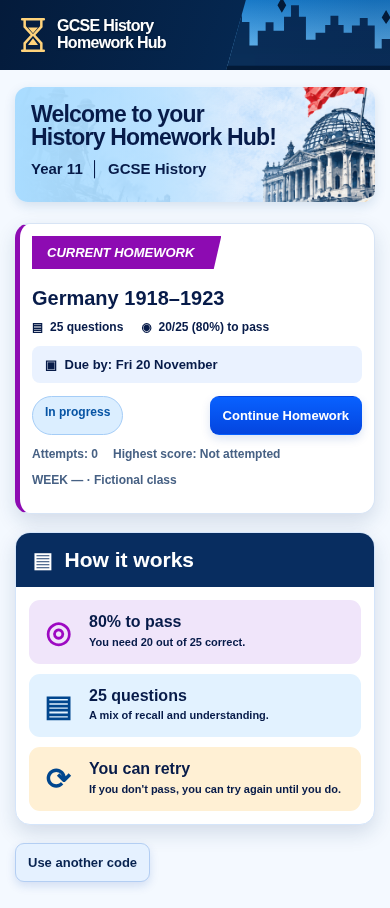
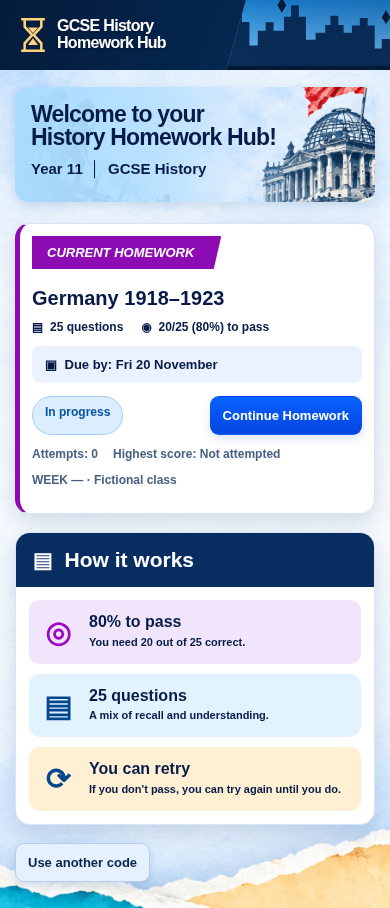
style: match TEST dashboard background to existing quiz watercolour

diff --git a/pupil/styles.css b/pupil/styles.css
@@ -851,8 +851,9 @@ body {
   }
 }
 
-/* Quiz screens only: calmer pale-blue watercolour, with torn-paper lower edge. */
-.quiz-bg {
+/* Dashboard and quiz share the approved watercolour and torn-paper lower edge. */
+.quiz-bg,
+#home {
   background-image: url("./assets/approved-quiz.png");
   background-position: center bottom;
   background-size: cover;

diff --git a/docs/pupil-design/README.md b/docs/pupil-design/README.md
@@ -38,10 +38,12 @@ style checks passing. Code entry matches the approved geometry, typography and c
 widths; mobile is pixel-identical and desktop differs only in negligible antialiased edge pixels.
 
 Three original artwork assets are extracted unchanged from the approved HTML. No generic imagery,
-external fonts, CDN assets, dependencies, telemetry or screenshot-as-UI substitute is used. Only
-question screens/inline question feedback use the quieter watercolour; all other art follows the
-approved reference. Existing functional controls and timing information necessarily add content
-where the demo omitted them; no existing functionality is removed to force a screenshot match.
+external fonts, CDN assets, dependencies, telemetry or screenshot-as-UI substitute is used. The
+dashboard and question screens/inline question feedback share the same quieter watercolour following
+the owner's final visual adjustment. Login, instructions and results retain their existing collage;
+the Reichstag dashboard welcome banner is unchanged. Existing functional controls and timing
+information necessarily add content where the demo omitted them; no existing functionality is
+removed to force a screenshot match.
 
 ## Verification
 
@@ -71,3 +73,18 @@ No unresolved functional question remains after the owner's Option 1 clarificati
 history and chronology are deliberate omissions, not hidden unfinished features. The PR remains
 DRAFT. Await explicit owner approval and school/Veritau clearance; do not merge, promote or deploy
 this design LIVE.
+
+## Final dashboard-background adjustment
+
+The owner requested that only the dashboard background match the existing quiz background. The same
+CSS rule now applies `approved-quiz.png`, `cover`, and `center bottom` to `.quiz-bg` and `#home`. No
+artwork was edited. No dimensions, spacing, positioning, text, controls or JavaScript changed. The
+dashboard includes the same blue-and-cream torn-paper lower edge while its original Reichstag
+welcome banner is unchanged.
+
+[Background/layout checks](dashboard-background-check.json) confirm identical quiz/dashboard
+background properties and unchanged dashboard/banner geometry and text at desktop/mobile widths.
+[Other-screen comparisons](dashboard-other-screens-unchanged.json) confirm the ten login,
+instruction, question and result screenshots are unchanged apart from negligible edge rasterisation.
+Existing R6 regressions and formatting passed. These checks intercept fictional TEST responses; no
+Supabase operation or hosted quiz was needed for this CSS-only adjustment.

diff --git a/docs/pupil-design/SCREENSHOTS.md b/docs/pupil-design/SCREENSHOTS.md
@@ -1,5 +1,9 @@
 # Pupil design screenshot comparison
 
+Latest owner-approved adjustment: the dashboard now shares the existing quiz watercolour and
+torn-paper background; the Reichstag welcome banner and all original dashboard geometry/text are
+unchanged. Other screens are unchanged.
+
 Desktop: 1280 × 900. Mobile: 390 × 844. Implementation images exercise the real UI with fictional
 intercepted TEST RPC responses; they are not hosted acceptance evidence. Artwork is extracted
 unchanged from the approved HTML.
